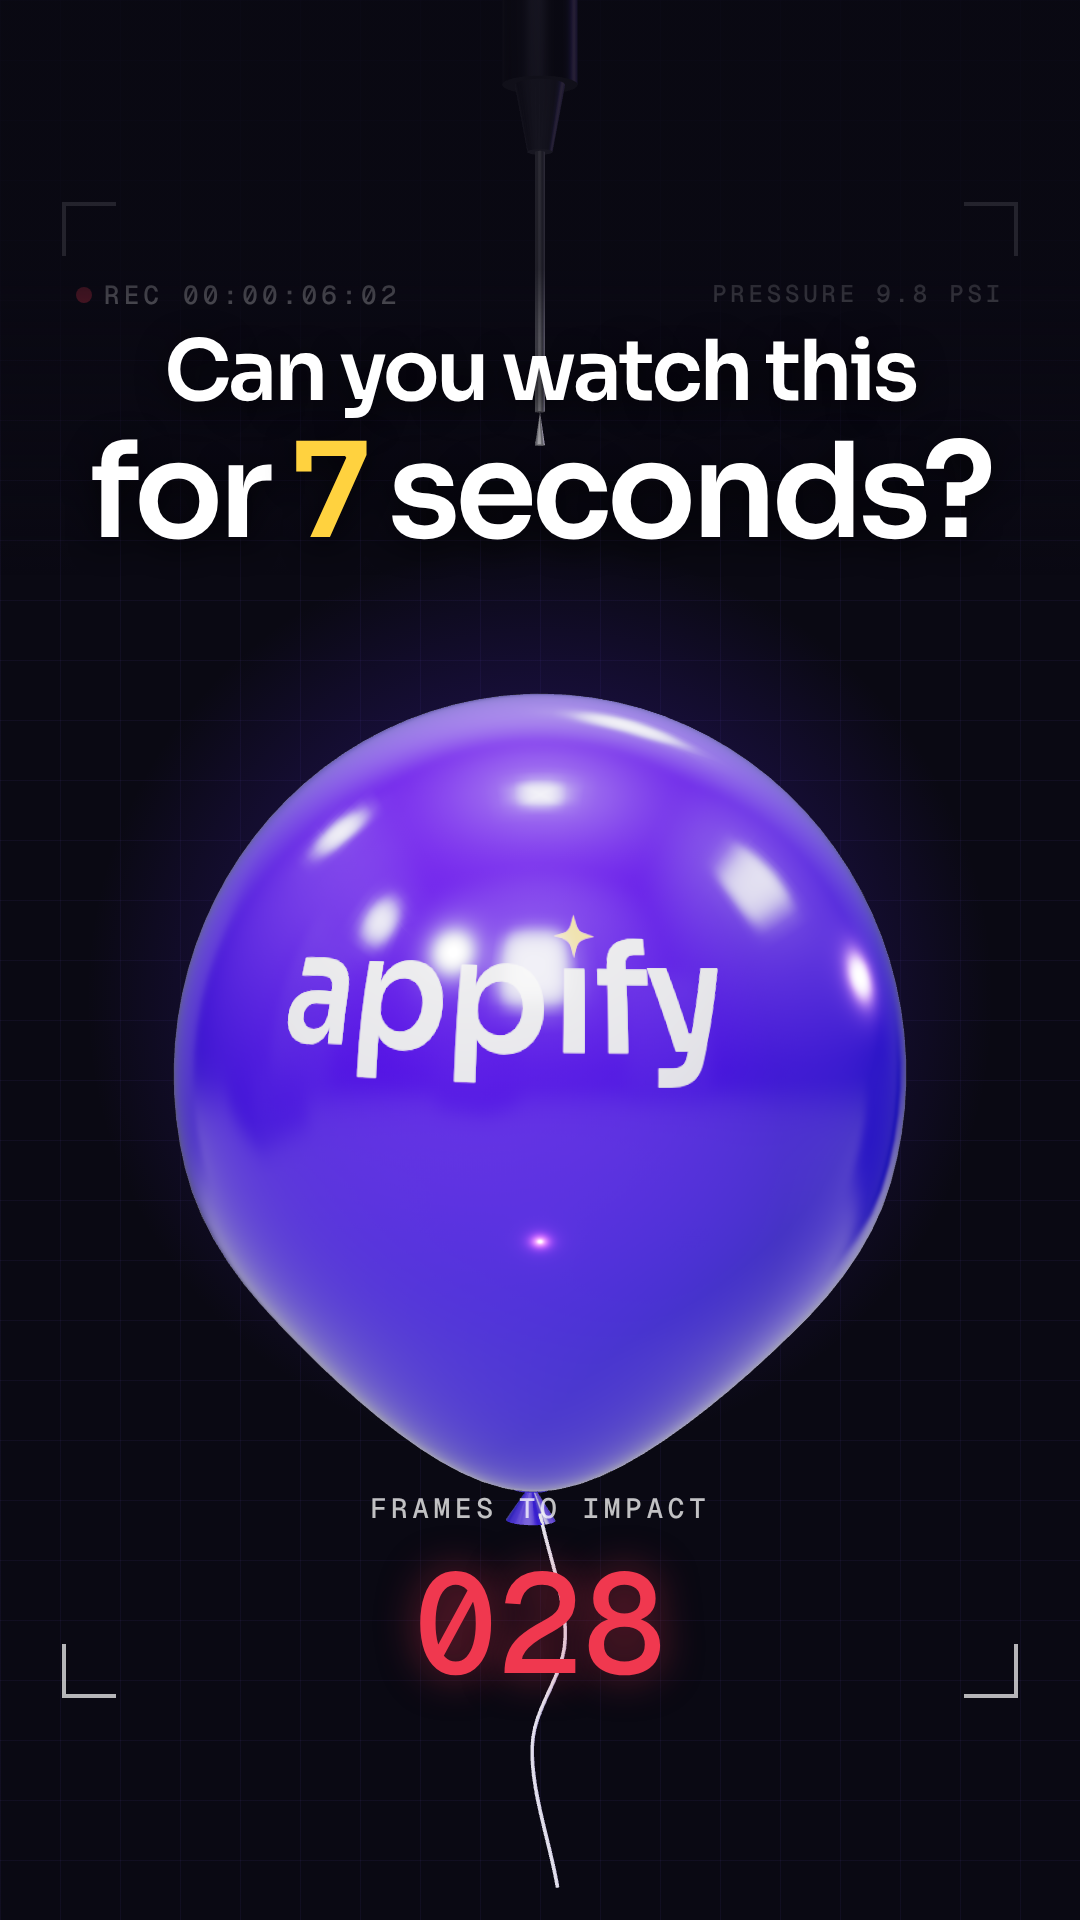
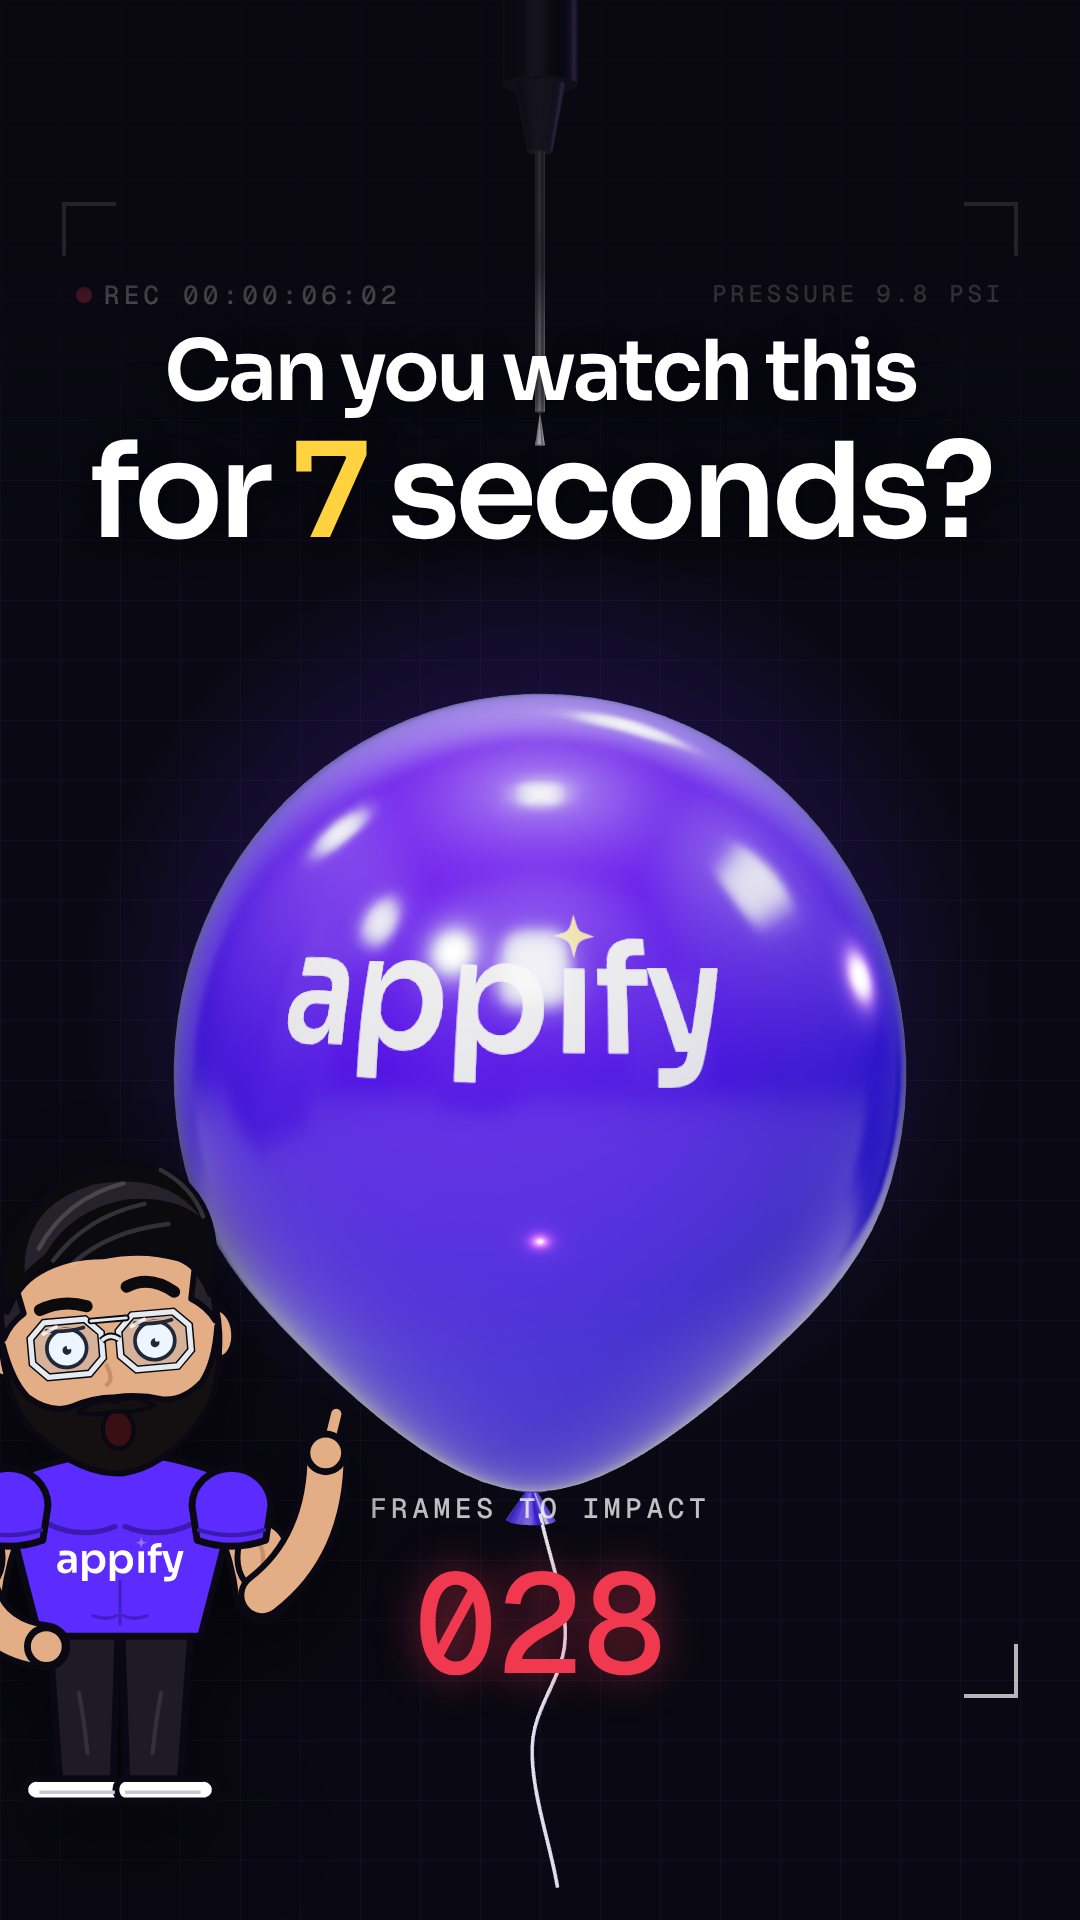
Balloon thumbnails: add Dev, shocked, pointing at the balloon
Claude-Session: https://claude.ai/code/session_01J8CdFv3swMV9cdtzd73STo

Changed region(s): [[0.0, 0.5938, 0.3361, 0.9375]]

diff --git a/appify-balloon/src/Dev.jsx b/appify-balloon/src/Dev.jsx
@@ -1,0 +1,133 @@
+// Dev: Appify's founder mascot as an animatable SVG rig.
+// Props are plain numbers so a scene can drive them from the frame.
+import { WORDMARK } from "./brand.js";
+const INK = "#0A0913", IRIS = "#8F72FF", UV = "#5B2BFF", UV_D = "#3A1BB0";
+const SKIN = "#E3AE86", SKIN_D = "#C98F68", HAIR = "#0B0A0C", HAIR_L = "#26222B", BEARD = "#141011";
+const S = 'stroke="#0A0913" stroke-width="8" stroke-linejoin="round" stroke-linecap="round"';
+const lerp = (a, b, t) => a + (b - a) * t;
+
+function spark(cx, cy, R, k = 0.22) {
+  const q = R * k;
+  return `M${cx},${cy - R} C${cx + q},${cy - q} ${cx + q},${cy - q} ${cx + R},${cy} C${cx + q},${cy + q} ${cx + q},${cy + q} ${cx},${cy + R} C${cx - q},${cy + q} ${cx - q},${cy + q} ${cx - R},${cy} C${cx - q},${cy - q} ${cx - q},${cy - q} ${cx},${cy - R} Z`;
+}
+function octagon(cx, cy, w, h, c) {
+  const x0 = cx - w / 2, x1 = cx + w / 2, y0 = cy - h / 2, y1 = cy + h / 2;
+  return `M${x0 + c},${y0} H${x1 - c} L${x1},${y0 + c} V${y1 - c} L${x1 - c},${y1} H${x0 + c} L${x0},${y1 - c} V${y0 + c} Z`;
+}
+
+// Athletic build: wide shoulders, V-taper, big arms, fitted tee with the appify wordmark.
+function body({ point = 0, wave = 0, waveAng = 0, thumbs = 0 }) {
+  const busy = Math.min(1, Math.max(point, wave, thumbs));
+  let g = `<ellipse cx="300" cy="858" rx="190" ry="18" fill="rgba(10,9,19,.18)"/>`;
+  // longer legs: slim dark trousers with a knee crease, sneakers
+  g += `<path d="M216,640 L230,836 L292,836 L298,650 Z" fill="#1E1B26" ${S}/><path d="M384,640 L370,836 L308,836 L302,650 Z" fill="#1E1B26" ${S}/>`;
+  g += `<path d="M252,730 Q258,760 262,800 M348,730 Q342,760 338,800" fill="none" stroke="#33303D" stroke-width="5" stroke-linecap="round"/>`;
+  g += `<path d="M204,830 h92 a14,14 0 0 1 0,26 h-96 a12,12 0 0 1 4,-26 Z" fill="#fff" ${S}/><path d="M304,830 h92 a12,12 0 0 1 4,26 h-96 a14,14 0 0 1 0,-26 Z" fill="#fff" ${S}/>`;
+  g += `<path d="M206,846 h88 M306,846 h88" stroke="#C9C6D6" stroke-width="4"/>`;
+  // traps + neck base
+  g += `<path d="M252,452 Q300,436 348,452 L392,478 L208,478 Z" fill="${SKIN_D}" ${S}/>`;
+  // fitted tee: V-taper torso
+  g += `<path d="M206,664 Q190,604 176,548 Q160,496 182,474 Q232,456 268,452 Q300,476 332,452 Q368,456 418,474 Q440,496 424,548 Q410,604 394,664 Z" fill="${UV}" ${S}/>`;
+  g += `<path d="M268,452 Q300,486 332,452" fill="none" stroke="${UV_D}" stroke-width="12" stroke-linecap="round"/><path d="M268,452 Q300,486 332,452" fill="none" stroke="${INK}" stroke-width="5"/>`;
+  // chest + abs hints
+  g += `<path d="M214,532 Q254,552 294,536 M306,536 Q346,552 386,532" fill="none" stroke="${UV_D}" stroke-width="6" stroke-linecap="round"/>`;
+  g += `<path d="M300,600 V650 M268,640 Q284,646 296,640 M304,640 Q316,646 332,640" fill="none" stroke="${UV_D}" stroke-width="4" stroke-linecap="round" opacity=".7"/>`;
+  // appify wordmark on the chest
+  const ws = 150 / WORDMARK.width, wx = 300 - 75, wy = 590;
+  g += `<g transform="translate(${wx} ${wy}) scale(${ws})"><path d="${WORDMARK.letters}" fill="#fff"/><path d="${WORDMARK.spark}" fill="${IRIS}"/></g>`;
+  // tablet, tucked away while gesturing
+  g += `<g opacity="${1 - busy}"><g transform="rotate(-4 300 676)"><rect x="196" y="622" width="208" height="112" rx="14" fill="#25212E" ${S}/><path d="${spark(300, 678, 20)}" fill="${IRIS}"/></g></g>`;
+  const limb = (x1, y1, cx, cy, x2, y2, w) =>
+    `<path d="M${x1},${y1} Q${cx},${cy} ${x2},${y2}" fill="none" stroke="${INK}" stroke-width="${w + 14}" stroke-linecap="round"/><path d="M${x1},${y1} Q${cx},${cy} ${x2},${y2}" fill="none" stroke="${SKIN}" stroke-width="${w}" stroke-linecap="round"/>`;
+  const upper = (sx, sy, ex, ey, out) => {
+    let a = limb(sx, sy, (sx + ex) / 2 + out * 8, (sy + ey) / 2, ex, ey, 54);
+    // bicep bulge
+    a += `<ellipse cx="${(sx + ex) / 2 + out * 14}" cy="${(sy + ey) / 2 + 4}" rx="30" ry="40" fill="${SKIN}" stroke="${INK}" stroke-width="7"/>`;
+    a += `<path d="M${(sx + ex) / 2 + out * 2},${(sy + ey) / 2 - 22} Q${(sx + ex) / 2 + out * 24},${(sy + ey) / 2} ${(sx + ex) / 2 + out * 6},${(sy + ey) / 2 + 30}" fill="none" stroke="${SKIN_D}" stroke-width="5" stroke-linecap="round"/>`;
+    return a;
+  };
+  // shoulders (sleeve caps over the delts)
+  const sleeve = (cx) => `<path d="M${cx - 46},512 A46,44 0 0 1 ${cx + 46},512 L${cx + 40},552 Q${cx},566 ${cx - 40},552 Z" fill="${UV}" ${S}/><path d="M${cx - 38},540 Q${cx},552 ${cx + 38},540" fill="none" stroke="${UV_D}" stroke-width="5" stroke-linecap="round"/>`;
+  // left arm
+  const LS = [160, 520], LE = [134, 616];
+  const a = (8 + waveAng) * Math.PI / 180;
+  const lhx = lerp(214, LE[0] + 10 + Math.sin(a) * 140, wave), lhy = lerp(676, LE[1] - 20 - Math.cos(a) * 140, wave);
+  g += upper(LS[0], LS[1], LE[0], LE[1], -1);
+  g += limb(LE[0], LE[1], lerp(150, 110, wave), lerp(668, 560, wave), lhx, lhy, 42);
+  g += `<circle cx="${lhx}" cy="${lhy}" r="22" fill="${SKIN}" ${S}/>`;
+  if (wave > 0.5) g += `<path d="M${lhx - 16},${lhy - 14} l-6,-24 M${lhx - 3},${lhy - 19} l-1,-28 M${lhx + 11},${lhy - 15} l5,-25" stroke="${INK}" stroke-width="17" stroke-linecap="round"/><path d="M${lhx - 16},${lhy - 14} l-6,-24 M${lhx - 3},${lhy - 19} l-1,-28 M${lhx + 11},${lhy - 15} l5,-25" stroke="${SKIN}" stroke-width="9" stroke-linecap="round"/>`;
+  g += sleeve(170);
+  // right arm: hold / point / thumbs-up
+  const RS = [440, 520], RE = [466, 616];
+  const w0 = Math.max(0, 1 - point - thumbs);
+  const rhx = 386 * w0 + 540 * point + 516 * thumbs, rhy = 676 * w0 + 450 * point + 520 * thumbs;
+  const rcx = 450 * w0 + 540 * point + 530 * thumbs, rcy = 668 * w0 + 560 * point + 600 * thumbs;
+  g += upper(RS[0], RS[1], RE[0], RE[1], 1);
+  g += limb(RE[0], RE[1], rcx, rcy, rhx, rhy, 42);
+  if (point > 0.5) g += `<rect x="${rhx - 8}" y="${rhy - 56}" width="18" height="46" rx="9" fill="${SKIN}" stroke="${INK}" stroke-width="6" transform="rotate(14 ${rhx} ${rhy})"/>`;
+  if (thumbs > 0.5) g += `<rect x="${rhx - 10}" y="${rhy - 62}" width="22" height="48" rx="11" fill="${SKIN}" stroke="${INK}" stroke-width="6"/>`;
+  g += `<circle cx="${rhx}" cy="${rhy}" r="${thumbs > 0.5 ? 25 : 22}" fill="${SKIN}" ${S}/>`;
+  g += sleeve(430);
+  return g;
+}
+
+function head({ brow = 6, lid = 0.1, smile = 0.8, look = 0, open = 0, shock = 0, happy = 0, wink = 0 }) {
+  let g = `<path d="M262,420 L262,456 Q300,470 338,456 L338,420 Z" fill="${SKIN_D}" ${S}/>`;
+  g += `<ellipse cx="154" cy="300" rx="22" ry="34" fill="${SKIN}" ${S}/><ellipse cx="446" cy="300" rx="22" ry="34" fill="${SKIN}" ${S}/>`;
+  g += `<path d="M300,140 C390,140 452,204 448,300 C444,388 384,446 300,448 C216,446 156,388 152,300 C148,204 210,140 300,140 Z" fill="${SKIN}" ${S}/>`;
+  g += `<path d="M156,282 Q150,228 176,200 L186,250 Q166,262 156,282 Z" fill="${HAIR_L}" ${S}/><path d="M444,282 Q450,228 424,200 L414,250 Q434,262 444,282 Z" fill="${HAIR_L}" ${S}/>`;
+  g += `<path d="M164,246 Q146,156 206,116 Q252,62 330,58 Q412,60 440,124 Q462,174 440,246 Q428,206 402,194 Q356,176 300,182 Q248,178 212,196 Q182,210 164,246 Z" fill="${HAIR}" ${S}/>`;
+  g += `<path d="M192,194 Q198,104 296,84 Q396,74 436,140 Q400,108 340,108 Q264,114 222,172 Z" fill="${HAIR_L}"/>`;
+  g += `<path d="M214,164 Q256,100 336,86 M232,182 Q282,126 362,116 M258,188 Q312,148 392,146 M388,72 Q428,98 440,140" fill="none" stroke="rgba(255,255,255,.16)" stroke-width="6" stroke-linecap="round"/>`;
+  g += `<path d="M154,290 Q150,382 198,424 Q244,474 300,478 Q356,474 402,424 Q450,382 446,290 Q438,340 418,364 Q390,388 362,382 Q332,372 300,374 Q268,372 238,382 Q210,388 182,364 Q162,340 154,290 Z" fill="${BEARD}" ${S}/>`;
+  // mouth under the moustache: smile when closed, opens with the voice
+  const mh = 10 + 14 * smile;
+  if (shock > 0.4) {
+    const r = 14 + 12 * shock + 10 * open;
+    g += `<ellipse cx="300" cy="${410 + r * 0.3}" rx="${r * 0.8}" ry="${r}" fill="#3A0F14" stroke="${INK}" stroke-width="6"/>`;
+  } else if (open > 0.06) {
+    const d = 8 + 34 * open;
+    g += `<path d="M264,400 Q300,${404 + smile * 6} 336,400 Q332,${404 + d} 300,${408 + d} Q268,${404 + d} 264,400 Z" fill="#3A0F14" stroke="${INK}" stroke-width="6" stroke-linejoin="round"/>`;
+    g += `<path d="M270,401 Q300,${406 + smile * 4} 330,401 L328,${407 + smile * 3} Q300,${411 + smile * 4} 272,${407 + smile * 3} Z" fill="#fff"/>`;
+  } else {
+    g += `<path d="M266,402 Q300,${402 + mh * 1.5} 334,402 Q300,${406 + mh * 0.25} 266,402 Z" fill="#fff" stroke="${INK}" stroke-width="6" stroke-linejoin="round"/>`;
+  }
+  g += `<path d="M248,390 Q274,370 300,380 Q326,370 352,390 Q328,398 300,393 Q272,398 248,390 Z" fill="${BEARD}" stroke="${INK}" stroke-width="6" stroke-linejoin="round"/>`;
+  g += `<path d="M292,330 Q300,350 290,356" fill="none" stroke="${SKIN_D}" stroke-width="6" stroke-linecap="round"/>`;
+  [240, 360].forEach((x, i) => {
+    const closed = happy > 0.5 || (wink > 0.5 && i === 1);
+    if (closed) {
+      g += `<path d="M${x - 22},308 Q${x},286 ${x + 22},308" fill="none" stroke="${INK}" stroke-width="7" stroke-linecap="round"/>`;
+      return;
+    }
+    const ry = 20 + 6 * shock, pr = 10 - 4 * shock;
+    g += `<ellipse cx="${x}" cy="302" rx="${24 + 3 * shock}" ry="${ry}" fill="#fff" stroke="${INK}" stroke-width="5"/>`;
+    g += `<circle cx="${x + look * (1 - shock)}" cy="305" r="${pr}" fill="${INK}"/><circle cx="${x + look * (1 - shock) + 3}" cy="301" r="3" fill="#fff"/>`;
+    const t = 282 + 38 * Math.min(1, lid * (1 - shock));
+    g += `<path d="M${x - 27},274 H${x + 27} V${t - 6 * shock} Q${x},${t + 5 - 6 * shock} ${x - 27},${t - 6 * shock} Z" fill="${SKIN}"/>`;
+    g += `<path d="M${x - 25},${t - 6 * shock} Q${x},${t + 5 - 6 * shock} ${x + 25},${t - 6 * shock}" fill="none" stroke="${INK}" stroke-width="5" stroke-linecap="round"/>`;
+  });
+  brow += shock * 14 + happy * 6;
+  g += `<path d="M208,${252 - brow * 0.2} Q240,${240 - brow * 0.2} 272,${250 - brow * 0.1}" fill="none" stroke="${HAIR}" stroke-width="16" stroke-linecap="round"/>`;
+  g += `<path d="M328,${250 - brow} Q360,${236 - brow} 392,${248 - brow * 0.4}" fill="none" stroke="${HAIR}" stroke-width="16" stroke-linecap="round"/>`;
+  for (const x of [240, 360]) {
+    const o = octagon(x, 302, 96, 74, 20);
+    g += `<path d="${o}" fill="rgba(140,200,255,.16)" stroke="${INK}" stroke-width="11"/><path d="${o}" fill="none" stroke="#E4ECF2" stroke-width="7"/>`;
+    g += `<path d="M${x - 30},280 L${x - 12},272" stroke="#fff" stroke-width="5" stroke-linecap="round" opacity=".8"/>`;
+  }
+  g += `<path d="M288,296 Q300,286 312,296" fill="none" stroke="${INK}" stroke-width="10"/><path d="M288,296 Q300,286 312,296" fill="none" stroke="#E4ECF2" stroke-width="5"/>`;
+  g += `<path d="M276,268 H324" stroke="${INK}" stroke-width="9" stroke-linecap="round"/><path d="M276,268 H324" stroke="#E4ECF2" stroke-width="4" stroke-linecap="round"/>`;
+  return g;
+}
+
+export function Dev({ width = 300, point = 0, wave = 0, waveAng = 0, thumbs = 0, tilt = 0, bob = 0, ...face }) {
+  const h = (width * 830) / 420;
+  return (
+    <svg viewBox="90 50 420 830" width={width} height={h} style={{ overflow: "visible" }}>
+      <g transform={`translate(0 ${bob})`}>
+        <g dangerouslySetInnerHTML={{ __html: body({ point, wave, waveAng, thumbs }) }} />
+        <g transform={`rotate(${tilt} 300 446) translate(300 452) scale(0.86) translate(-300 -452)`} dangerouslySetInnerHTML={{ __html: head(face) }} />
+      </g>
+    </svg>
+  );
+}

diff --git a/appify-balloon/src/Cover.jsx b/appify-balloon/src/Cover.jsx
@@ -5,6 +5,7 @@ import { useFonts } from "./fx.jsx";
 import { ThreeCanvas } from "@remotion/three";
 import { BalloonShot, C } from "./Main.jsx";
 import { World } from "./Scene3D.jsx";
+import { Dev } from "./Dev.jsx";
 
 const D = { fontFamily: "Display", fontWeight: 600, letterSpacing: "-0.04em", lineHeight: 1 };
 export const Cover = () => {
@@ -21,6 +22,10 @@ export const Cover = () => {
           </ThreeCanvas>
         </div>
         <BalloonShot f={182} layer="hud" />
+        {/* Dev, shocked, pointing up at the needle */}
+        <div style={{ position: "absolute", left: -60, top: 1110, filter: "drop-shadow(0 30px 40px rgba(0,0,0,.55))" }}>
+          <Dev width={360} point={1} shock={1} look={7} brow={10} tilt={-5} />
+        </div>
       </div>
       <AbsoluteFill style={{ background: `linear-gradient(180deg, rgba(10,9,19,.85) ${feed ? 4 : 14}%, rgba(10,9,19,0) ${feed ? 24 : 30}%)` }} />
       <div style={{ position: "absolute", left: 0, right: 0, top: feed ? 40 : 330, textAlign: "center", textShadow: "0 6px 30px rgba(0,0,0,.7)" }}>
